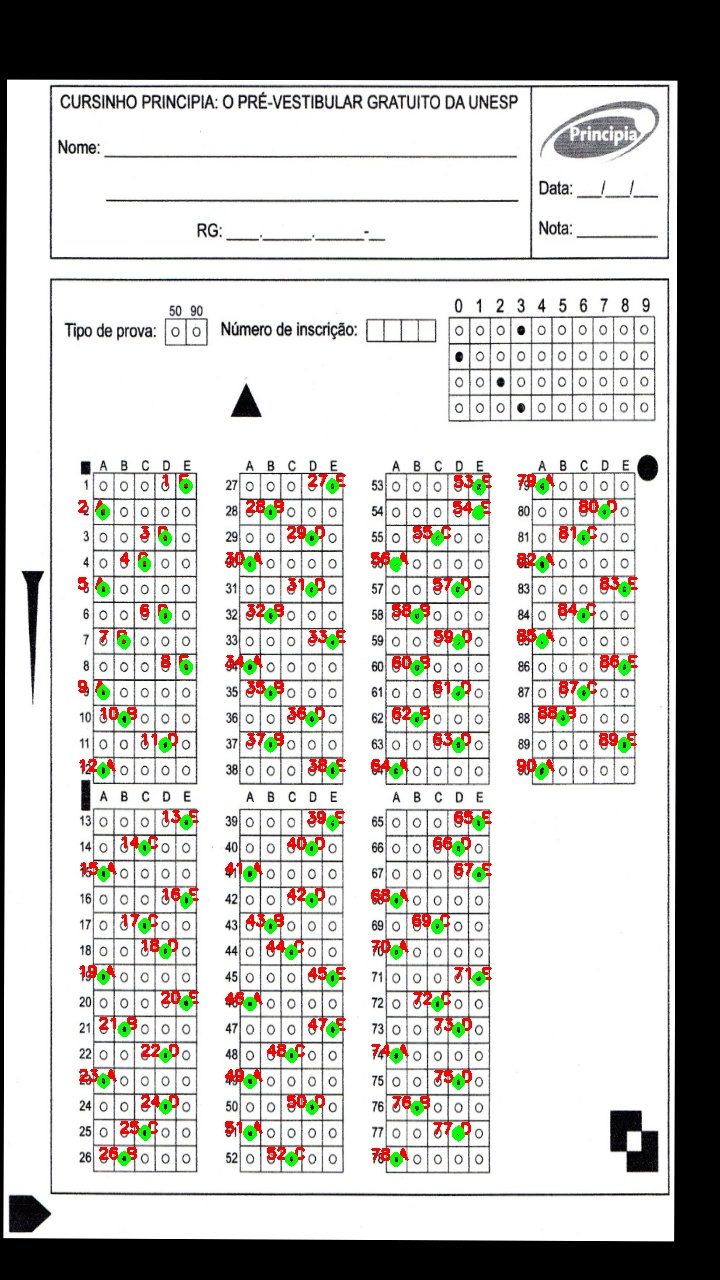
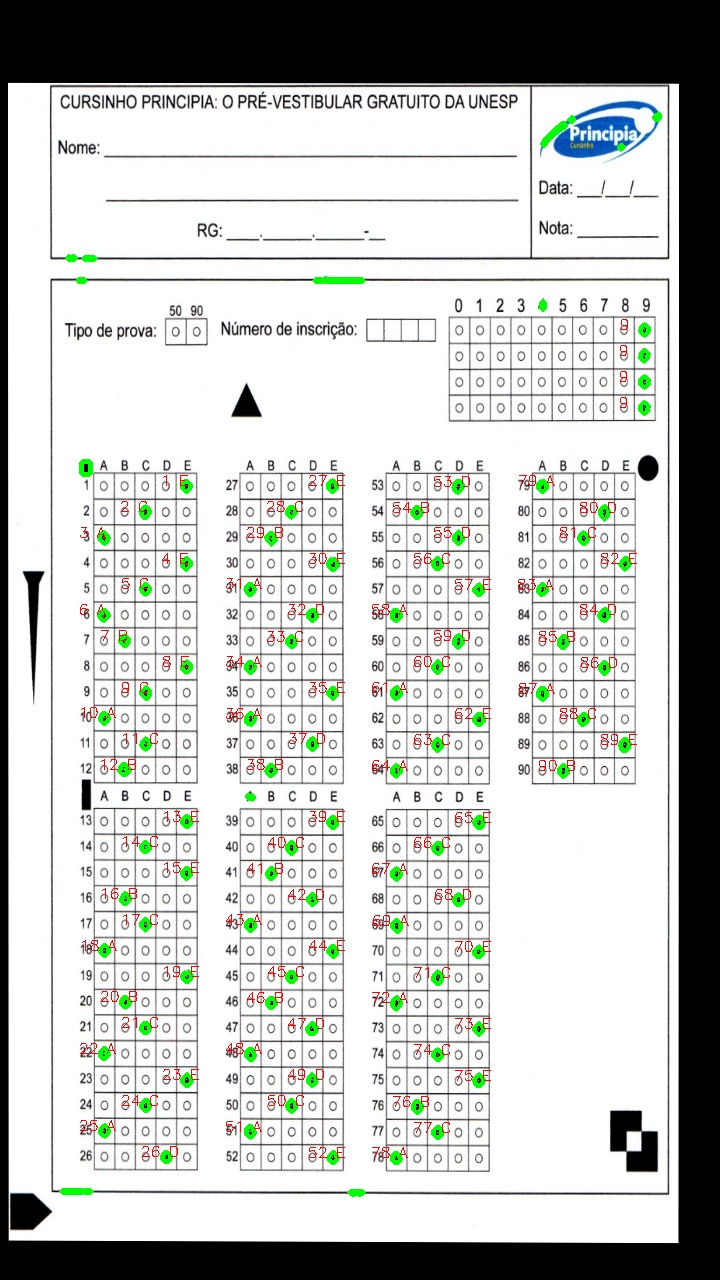
Arrumando o RA

diff --git a/respostas.py b/respostas.py
@@ -14,8 +14,8 @@ class Respostas:
         [1093,1119],[1120,1145],[1146,1171]]
 
         #define os ranges que serão utilizados para localizar o RA
-        RAx = [[448,469],[470,489],[490,510], [511,530], [531,551], [552,572],[573,592],[593,613],[614,633],[634,654]]
-        RAy = [[317,343],[344,369],[370,395],[396,421]]
+        RAx = [[450,469],[470,489],[490,510], [511,530], [531,551], [552,572],[573,592],[593,613],[614,633],[634,654]]
+        RAy = [[318,344],[345,369],[370,395],[396,421]]
 
         listRet = []
         listNumbers = []
@@ -34,6 +34,7 @@ class Respostas:
                 # calculate x,y coordinate of center
                 cX = int(M["m10"] / M["m00"])
                 cY = int(M["m01"] / M["m00"])
+                cv2.drawContours(img, c, -1, (0,255,0), 3)
 
                 #Compare the central point to the Xo value of every letter and question number
                 if(cX<=760 or cY>=625):
@@ -41,7 +42,7 @@ class Respostas:
                         if (cX >= ListX[x][0] and cX <= ListX[x][1]):
                             for j in range(0, 26):
                                 if (cY >= ListY[j][0] and cY <= ListY[j][1]):
-                                    # cv2.circle(imReg, (cX, cY), 0, (255, 255, 255), -15)
+                                    cv2.circle(img, (cX, cY), 0, (0, 255, 0), -15)
                                     if (x==0 or x==5 or x==10 or x==15):
                                         letra = "A"
                                     elif (x==1 or x==6 or x==11 or x==16):
@@ -64,18 +65,20 @@ class Respostas:
 
                                     listRet.append(letra)
                                     listNumbers.append(numero)
-                                    cv2.putText(img, numero+' '+letra, (cX - 25, cY),cv2.FONT_HERSHEY_SIMPLEX, 0.5, (0, 0, 255), 2)
-                                    cv2.drawContours(img, c, -1, (0,255,0), 3)
+                                    cv2.putText(img, numero+' '+letra, (cX - 25, cY),cv2.FONT_HERSHEY_SIMPLEX, 0.5, (0, 0, 255), 1)
+                                    cv2.drawContours(img, c, -1, (0,255,0), 1)
                 
-                else:
-                    for x in range(0,10):
-                        if(cX >= RAx[x][0] and cX <= RAx[x][1]):
-                            for j in range(0,4):
-                                if(cY >= RAy[j][0] and cY <= RAy[j][1]):
-                                    listRA.append(str(x))
-                                    cv2.putText(img, str(x), (cX - 25, cY),cv2.FONT_HERSHEY_SIMPLEX, 0.5, (0, 255, 0), 2)
+                
+                for x in range(0,10):
+                    if(cX >= RAx[x][0] and cX <= RAx[x][1]):
+                        for j in range(0,4):
+                            if(cY >= RAy[j][0] and cY <= RAy[j][1]):
+                                listRA.append(str(x))
+                                cv2.putText(img, str(x), (cX - 25, cY),cv2.FONT_HERSHEY_SIMPLEX, 0.5, (0, 0, 255), 1)
+                                cv2.drawContours(img, c, -1, (0,255,0), 1)
 
         #print(listRet)
+        #print(listRA)
         #print(listNumbers)
         for x in range(0,len(listNumbers)-1):
             for j in range(x,len(listNumbers)):

diff --git a/newmain.py b/newmain.py
@@ -29,8 +29,8 @@ def main ():
             contours = img.get_contours(align_image)
             ra, checked_answers = resp.get_answers(contours, align_image)
             correct_answers = resp.compare_answers(checked_answers)
-            print(correct_answers)
-            print("\n")
+            #print(correct_answers)
+            #print("\n")
             #print(ra)
 
 
